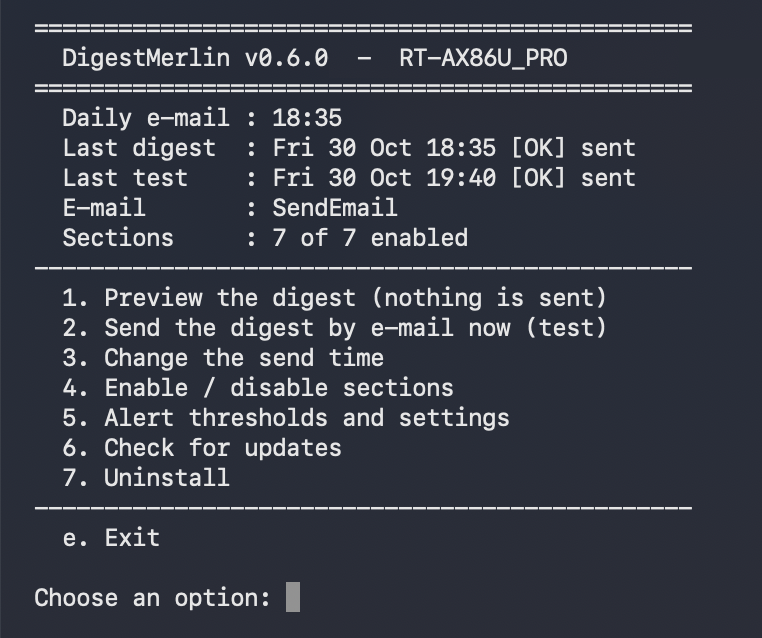
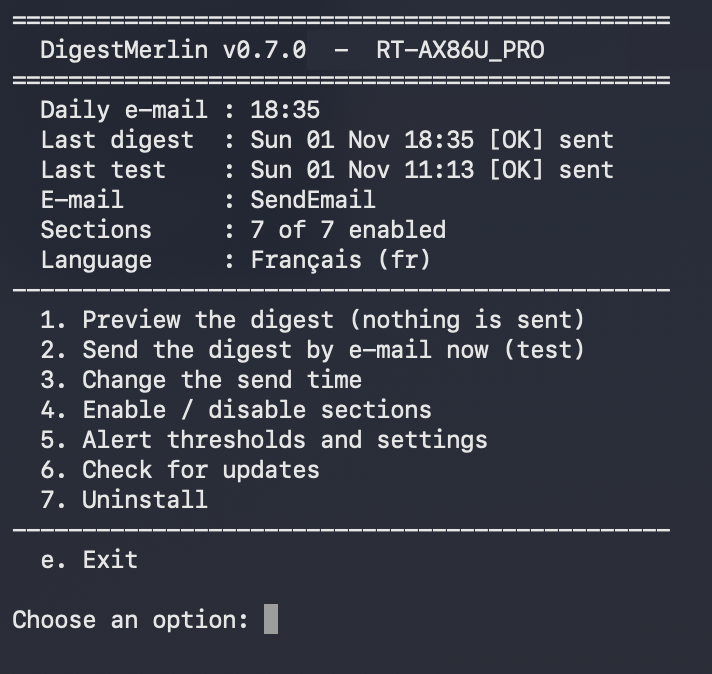
v0.7.0

Changed region(s): [[0.0309, 0.0, 0.927, 0.8636], [0.0, 0.8934, 0.4017, 0.9828]]

diff --git a/README.md b/README.md
@@ -66,7 +66,7 @@ None
 
 Generated 2026-10-12 22:36 - covers the last 24h
 Sections: 7 OK
-DigestMerlin v0.6.0
+DigestMerlin v0.7.0
 ```
 
 When something is wrong, the subject becomes `[ATTENTION]` and the ALERTS section says what, e.g.
@@ -183,6 +183,16 @@ an update never turns it on by itself. Turning it on or off in the menu adds or 
 and one line, marked `# DigestMerlinWatch`, in `/jffs/scripts/services-start`. The same command is
 `sh /jffs/scripts/digestmerlin.sh watch`.
 
+**Mail language.** Setting 12 (`MAIL_LANG`) sends the digest and the new device e-mail in English
+(default), Français, Deutsch, Español or Italiano; the menu lists the languages installed. The menu,
+the logs and the dates stay in English, and the subject tags (`[OK]`, `[ATTENTION]`, `[NEW DEVICE]`)
+are not translated, so mail filters keep working. The digest is still built in English: only the text
+that leaves by e-mail is translated, and if anything goes wrong it is sent in English. The language
+files are plain text in `/jffs/addons/digestmerlin.d/lang/`, one `English text => translation` line
+per text. For your own wording, put the same kind of lines in `lang/custom.txt`: it is read first
+and never touched by an update. The German, Spanish and Italian files are first versions -
+corrections from native speakers are welcome.
+
 ## If no e-mail arrives
 
 1. Open the menu and look at the `E-mail` line of the header:
@@ -219,6 +229,7 @@ The easiest way to change them is the menu: option 4 for the sections, option 5 
 | `UPDATE_CHECK` | 5.9 | 1 | `1` = the digest tells you when a new DigestMerlin version is on GitHub. See below. |
 | `WAN_PLANNED` | 5.10 | (none) | A window when WAN drops are expected, e.g. `"Sun 03:00-03:10"`: they are shown, but raise no alert. See below. |
 | `NEW_DEVICE_ALERT` | 5.11 | 0 | `1` = an e-mail within 2 minutes when an unknown device joins the network (see Usage). Turn it on from the menu, which also creates its cron job. |
+| `MAIL_LANG` | 5.12 | en | Language of the e-mails: `en`, `fr`, `de`, `es` or `it` (see Usage). |
 
 **Why two alerts are off by default.** The temperature is shown in the SYSTEM section when the router reports it (no temperature shown means no temperature alert is possible),
 but what is normal depends on the model: around 65C on some routers, 80C or more on others. A fixed
@@ -292,6 +303,7 @@ stopped after 5 s), `fmt_age`, `fmt_time`, and `state_get` / `state_set` to reme
 /jffs/addons/digestmerlin.d/sections/        one script per section
 /jffs/addons/digestmerlin.d/digestmerlin.conf    your settings (optional)
 /jffs/addons/digestmerlin.d/state/           values remembered between runs
+/jffs/addons/digestmerlin.d/lang/            e-mail languages (custom.txt: your own wording)
 ```
 
 ## Uninstall

diff --git a/CHANGELOG.md b/CHANGELOG.md
@@ -1,5 +1,23 @@
 # Changelog
 
+## v0.7.0 - 2026-11-02
+- **E-mail in your language** (setting 12 `MAIL_LANG`): English (default), Français, Deutsch,
+  Español, Italiano. The digest and the new device e-mail are translated; the menu, the logs and
+  the dates stay in English. The subject tags ([OK], [ATTENTION], [NEW DEVICE]) are not translated,
+  so mail filters keep working. An update never changes the language; the menu shows it.
+- Language files in `/jffs/addons/digestmerlin.d/lang/` (plain text, one `English => translation`
+  line per text). Your own wording in `lang/custom.txt`: read first, never touched by an update.
+  The digest is still built in English: a text missing from a file stays in English, and if
+  anything goes wrong the e-mail is sent in English. German, Spanish and Italian are first
+  versions: corrections from native speakers are welcome.
+- Update: the new version now finishes its own install, and the update can install data files
+  (such as the language files). After an update from v0.6.0 or older, whose updater cannot fetch
+  them, v0.7.0 downloads them itself at the next digest or when the menu is opened.
+- Fix: the new device e-mail job could take over the device-list lock while the digest was
+  creating it (at worst a device reported twice).
+- Fix: without `timeout` and `usleep`, a stuck nvram read could hold a section about 50 s
+  instead of 5 s.
+
 ## v0.6.0 - 2026-11-01
 - **New device e-mail** (optional, setting 11 `NEW_DEVICE_ALERT`): an e-mail within 2 minutes when
   an unknown device joins the network, besides the daily digest, which lists it again with
